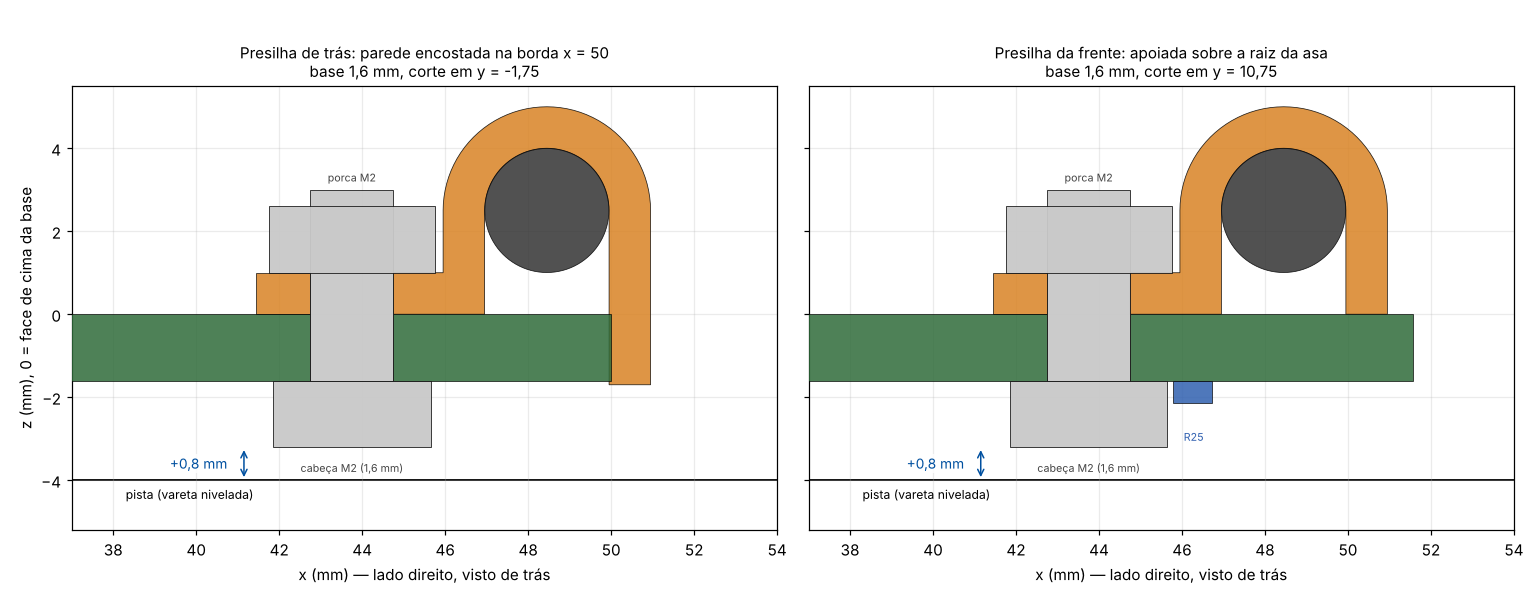
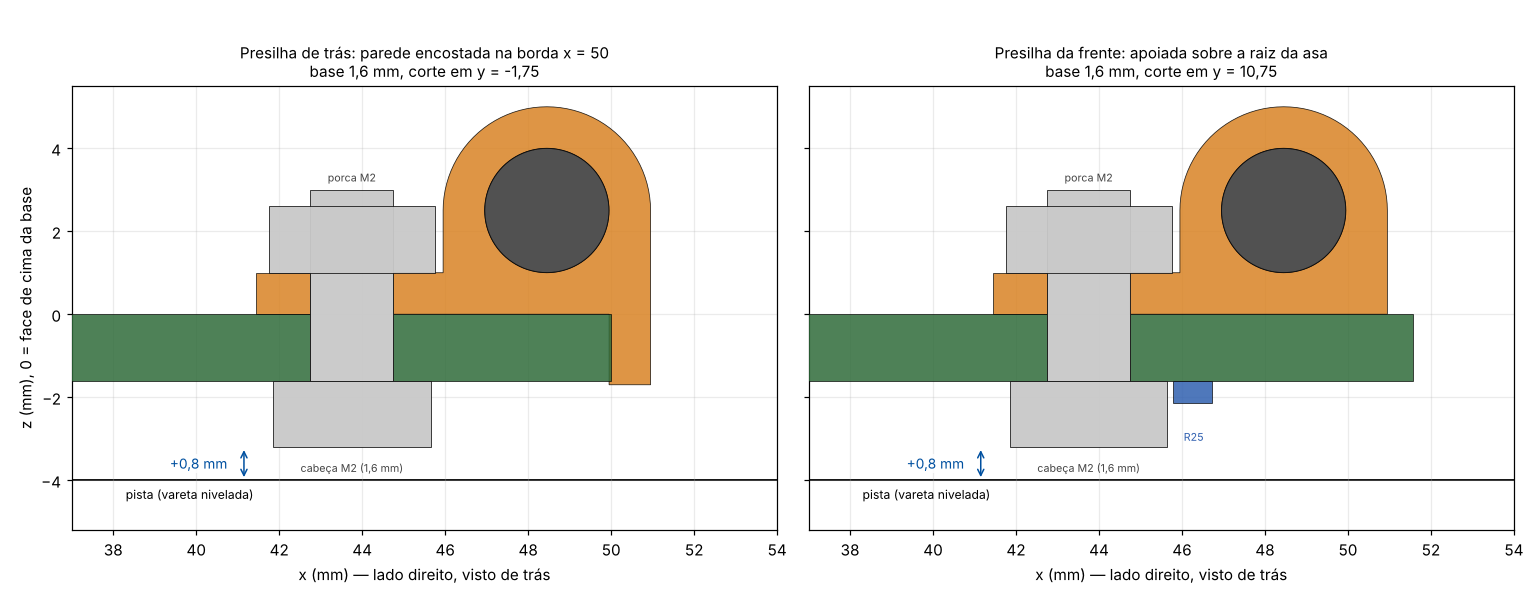
Mecânica para imprimir só em PLA e PETG
Presilhas com assento: o canal da vareta, aberto para a placa no
barilla_clamp do EVA-RT, deixava 1 mm de vão sob a vareta, e a altura
dela dependia só do aperto do canal e de cola. Sem filamento com fibra
de carbono o aperto é bem mais fraco, e o cianoacrilato cola mal no
PETG. Com o furo fechado embaixo, a vareta fica presa nos dois sentidos
e entra pela ponta. Os originais continuam reconstruídos iguais (opção
assento=False).

mecânica/README.md: o que o EVA-RT documenta sobre material, tabela de
PLA x PETG por peça, cuidados de impressão e cola para PETG.
Conferência 3D e figuras refeitas.

Peças derivadas do EVA-RT, (c) EXOTIC TEAM MX, AGPL-3.0.

Claude-Session: https://claude.ai/code/session_01LzVZu3KMmCq5bwxoKeBgSX

Changed region(s): [[0.7792, 0.3701, 0.8727, 0.5244], [0.3117, 0.3701, 0.4052, 0.5244]]

diff --git a/ferramentas/pecas_3d/gerar_pecas.py b/ferramentas/pecas_3d/gerar_pecas.py
@@ -195,7 +195,7 @@ def patim(esp_pcb=1.0, desl=DESL_PATIM_V1, borda_pcb=BORDA_V1_LOCAL,
 # Presilha da vareta na base (barilla_clamp)
 # ----------------------------------------------------------------------------
 def presilha(esp_pcb=1.0, folga_rasgo=0.0, desl=DESL_PRESILHA, x_fim=7.0,
-             braco_baixo=True, parede_na_borda=True) -> Manifold:
+             braco_baixo=True, parede_na_borda=True, assento=False) -> Manifold:
     """Presilha da vareta na base.
 
     braco_baixo  True = como o barilla_clamp do EVA-RT (rasgo que abraca a placa).
@@ -208,6 +208,12 @@ def presilha(esp_pcb=1.0, folga_rasgo=0.0, desl=DESL_PRESILHA, x_fim=7.0,
                  peca girar). False = a parede acaba na face de cima: a peca apoia
                  inteira em cima da placa. E a presilha da frente do Saturn, que
                  fica sobre a raiz da asa (ali a placa vai alem de x = +-50).
+    assento      False = canal em U aberto para a placa, como no original: sob a
+                 vareta sobra 1 mm de vao e a altura dela depende so do aperto do
+                 canal (e de cola). True = canal fechado embaixo (furo O3 inteiro):
+                 a vareta fica presa para cima e para baixo. Para PLA/PETG, que
+                 seguram por aperto bem menos que filamento com fibra de carbono,
+                 e o PETG cola mal com cianoacrilato. A vareta entra pela ponta.
     """
     comp = 4.5
     y_topo_pcb = -2.5                            # eixo da vareta 2,5 mm acima da base
@@ -222,19 +228,20 @@ def presilha(esp_pcb=1.0, folga_rasgo=0.0, desl=DESL_PRESILHA, x_fim=7.0,
     if braco_baixo:
         corpo += ret(-2.5, x_fim, y_base, y_base_pcb)        # braco de baixo
     corpo -= circ(R_VARETA)
-    corpo -= ret(-R_VARETA, R_VARETA, y_base_pcb, 0)
+    if not assento:
+        corpo -= ret(-R_VARETA, R_VARETA, y_base_pcb, 0)
     return extr_z(corpo, 0, comp) - furo_y(desl, comp / 2)
 
 
 def presilha_tras():
     """Presilhas de tras (y = -1,75): borda reta em x = +-50, parede encostada nela.
-    E a presilha do perseguidor RUSH - Dreamcast (base de 1,6 mm)."""
-    return presilha(ESP_BASE, folga_rasgo=0.1, braco_baixo=False)
+    E a presilha do perseguidor RUSH - Dreamcast (base de 1,6 mm) com o assento."""
+    return presilha(ESP_BASE, folga_rasgo=0.1, braco_baixo=False, assento=True)
 
 
 def presilha_frente():
     """Presilhas da frente (y = 10,75): sobre a raiz da asa, apoiada so em cima."""
-    return presilha(ESP_BASE, folga_rasgo=0.1, braco_baixo=False, parede_na_borda=False)
+    return presilha(ESP_BASE, folga_rasgo=0.1, braco_baixo=False, parede_na_borda=False, assento=True)
 
 
 # ----------------------------------------------------------------------------

diff --git a/mecânica/README.md b/mecânica/README.md
@@ -16,13 +16,16 @@ O EVA-RT foi feito para base de 1,0 mm. Com 1,6 mm:
 Por causa da asa de gaivota, mais uma mudança, que não depende da espessura:
 - **Bloco da transversal:** o `barilla_connection` desce 1 mm abaixo da face de cima da base. No EVA-RT ele fica à frente da placa; no Saturn, a raiz da asa passa embaixo dele. O bloco novo tem um rebaixo no contorno da placa, com 0,3 mm de folga. É a mesma peça nos dois lados, e o furo da transversal fica igual.
 
+E uma por imprimir só em PLA e PETG (ver "Material"):
+- **Presilhas com assento:** na presilha original, o canal da vareta é aberto para a placa, e sobra 1 mm de vão sob a vareta. A altura dela depende só do aperto do canal e de cola. As presilhas deste kit têm o furo fechado embaixo: a vareta fica presa para cima e para baixo e entra pela ponta.
+
 ![Corte pelas presilhas](conferencia/corte_presilha.png)
 
 ## O que imprimir (`stl/`)
 | Arquivo | Qtde | Origem | Função |
 |---|---|---|---|
-| `presilha_vareta_tras_base1.6.stl` | 2 | perseguidor | presilha de trás (y = −1,75), parede na borda da base |
-| `presilha_vareta_frente_asa.stl` | 2 | **nova** | presilha da frente (y = 10,75), apoiada sobre a raiz da asa |
+| `presilha_vareta_tras_base1.6.stl` | 2 | perseguidor + assento | presilha de trás (y = −1,75), parede na borda da base |
+| `presilha_vareta_frente_asa.stl` | 2 | **nova**, com assento | presilha da frente (y = 10,75), apoiada sobre a raiz da asa |
 | `patim_v1_direito_barra1.6.stl` | 1 | novo (igual ao do perseguidor) | patim da barra V1, lado direito (+x) |
 | `patim_v1_esquerdo_barra1.6.stl` | 1 | novo (igual ao do perseguidor) | patim da barra V1, lado esquerdo |
 | `bloco_transversal_asa.stl` | 2 | EVA-RT com rebaixo | une a vareta longitudinal à transversal |
@@ -41,16 +44,34 @@ Do EVA-RT, não entram:
 - `barilla_clamp.stl`: tem rasgo de 1,0 mm;
 - `suction_base.stl` e `barilla_connection.stl`: foram substituídas pelas versões adaptadas.
 
-## Material e impressão
-Recomendação minha; o EVA-RT não informa material.
-- **PETG** nas peças com braço fino que trabalha sob aperto ou que encostam em motor: patins, presilhas, caixas de redução, `impeller_base_1/2`. O PLA amolece perto de 55–60 °C e racha em braço de 1 mm apertado por parafuso.
-- **Hélice:** PETG ou ABS/ASA, 100% de preenchimento, camada de 0,12–0,16 mm. Antes de dar potência, conferir se gira sem bater. Se vibrar, imprimir de novo.
-- **PLA serve** em aro, bloco da transversal, apoio da bateria, bucha e placa de sucção. O aro precisa de um alojamento de rolamento preciso (Ø6,19 × 3,0), e o PLA acerta melhor a medida.
+## Material: só PLA e PETG
+O README do EVA-RT não informa o filamento. Nas fotos, a carcaça da ventoinha é branca, de filamento comum, e as peças pequenas são pretas e foscas. Podem ser de fibra de carbono ou só de filamento preto: não dá para saber. O carbono documentado são as varetas, que são tubos comprados prontos, não impressos.
+
+Sem fibra de carbono, as peças ficam menos rígidas (PETG ≈ 2 GPa, PLA ≈ 3,5 GPa; com fibra, até 2 a 3 vezes mais) e o PETG amolece menos com calor (~80 °C, contra ~55–60 °C do PLA). O que isso muda:
+- **Presilhas:** ganharam o assento descrito acima. É a única peça que dependia do aperto do plástico para segurar a vareta na altura certa. No patim a vareta já apoia na barra e no assento, e no bloco ela passa por furos fechados.
+- **Cola:** o cianoacrilato cola bem no PLA e mal no PETG.
+  - Com o assento, a cola não segura mais a altura da vareta: serve só para travar o patim e as presilhas na posição ao longo dela.
+  - No PETG, lixar a superfície antes de colar. Se mesmo assim soltar, usar epóxi, ou uma volta de fita isolante na vareta logo atrás do patim, como batente.
+- **Hélice:** a ~50 mil rpm, a tensão na raiz das pás fica em ~5 MPa (estimativa grosseira). É uma fração da resistência do PETG e do PLA, então nenhum dos dois precisa de fibra.
+
+| Peça | Material | Por quê |
+|---|---|---|
+| presilhas, patins, bloco da transversal | **PETG** | braço de 1 mm apertado por parafuso e pancada em batida: o PLA racha |
+| caixas de redução | **PETG** | seguram o motor 1020, que esquenta; no PLA o motor afrouxa e o engrenamento (módulo 0,3) sai do lugar |
+| `impeller_base_1/2` (carcaça) | **PETG** | motor da ventoinha encostado |
+| hélice | **PETG** | o cubo fica no eixo do motor, que esquenta |
+| placa de sucção | **PETG** | o fundo do rebaixo tem 0,2 mm, e a cabeça do parafuso gira em cima dele ao apertar: o PLA trinca |
+| aros | **PLA** | alojamento do rolamento preciso (Ø6,19 × 3,0); o PLA acerta melhor a medida |
+| apoio da bateria, bucha (`bead`) | PLA ou PETG | sem esforço |
+
+Impressão:
 - Bico de 0,4 mm, camada de 0,12–0,16 mm, 3 perímetros ou mais, 100% de preenchimento.
-- Patim, presilhas e bloco já estão na posição de impressão (furo da vareta na vertical), sem suporte. O rebaixo do bloco fica na lateral da peça e também sai sem suporte.
+- PETG seco e com retração bem ajustada: fio solto na hélice desbalanceia, e no furo da vareta impede a vareta de entrar.
+- Patim, presilhas e bloco já estão na posição de impressão (furo da vareta na vertical), sem suporte. O assento das presilhas fecha um furo vertical e também não precisa de suporte. O rebaixo do bloco fica na lateral da peça.
 - Placa de sucção: deitada, 3 camadas de 0,2 mm, **com os rebaixos para cima** (a face lisa na mesa). Assim o fundo de 0,2 mm é a primeira camada e não precisa de ponte.
-- Os furos de Ø2,0 e o canal de 3,0 mm da vareta saem justos de propósito, como no original. Se não entrar, passar broca de 2 mm e de 3 mm à mão.
-- Imprimir primeiro **uma** presilha de cada tipo e **um** patim e testar na placa e na barra antes do resto.
+- Os furos de Ø2,0 e de Ø3,0 da vareta saem justos de propósito, como no original. Se a vareta não entrar, passar broca de 2 mm ou de 3 mm à mão. Como o furo das presilhas agora é fechado, a vareta tem de atravessar as duas presilhas e o bloco: alargar o furo só o bastante para ela deslizar com atrito.
+- Hélice: conferir se gira sem bater antes de dar potência. Se vibrar, imprimir de novo.
+- Imprimir primeiro **uma** presilha de cada tipo e **um** patim e testar na placa, na barra e com a vareta antes do resto.
 - O fundo do esqui desgasta na pista: imprimir um par de reserva.
 
 ## Ferragens
@@ -63,7 +84,7 @@ Recomendação minha; o EVA-RT não informa material.
 | Parafuso M2 × 6 + porca M2 | 4 | caixas de redução. A pilha é de 5,7 mm (pé 2,5 + base 1,6 + porca 1,6), sem sobra: se a porca não pegar a rosca inteira, usar M2 × 8 |
 | Parafuso M2 × 6, rosca direto no plástico | 4 | por baixo: fundo do rebaixo da placa de sucção → base → pés da carcaça (furo Ø1,85, 5 mm de fundo; entram 4,2 mm) |
 | Rolamento 692ZZ (2 × 6 × 3) | 4 | dois por aro |
-| Cola (cianoacrilato) | — | patins e presilhas, depois de acertar a distância |
+| Cola (cianoacrilato; epóxi se o PETG não colar) | — | travar patins e presilhas na vareta, depois de acertar a distância |
 
 Total: 12× M2 × 6, 2× M2 × 8, 10 porcas M2. Um kit M2 de 4 a 10 mm cobre as variações.
 Use cabeça cilíndrica ou abaulada de até Ø3,8 × 1,6 mm, sem arruela. Cabeça mais alta encosta na pista (ver alturas abaixo).
@@ -75,7 +96,7 @@ Use cabeça cilíndrica ou abaulada de até Ø3,8 × 1,6 mm, sem arruela. Cabeç
    - **Cortar rente**, embaixo, os terminais de J1, J2 e J4 e as pontas dos fios dos motores. Com a base de 1,6 mm sobram só 2,4 mm entre a placa e a pista.
    - Soldar a J2 bem reta, porque a vareta transversal passa a 0,23 mm dela.
    - J3 (gravação): ver "Cuidados".
-2. Passar cada vareta longitudinal pelo bloco da transversal e pelas duas presilhas.
+2. Passar cada vareta longitudinal, pela ponta, pelas duas presilhas e pelo bloco da transversal. O furo das presilhas é fechado.
 3. Encaixar as presilhas na base e prender cada uma com M2 × 6 de baixo para cima, com a porca em cima do braço:
    - **atrás**, a parede externa encosta na borda em x = ±50, sobre os furos (±43,75; −1,75);
    - **na frente**, a presilha apoia sobre a raiz da asa, sobre os furos (±43,75; 10,75).
@@ -84,7 +105,7 @@ Use cabeça cilíndrica ou abaulada de até Ø3,8 × 1,6 mm, sem arruela. Cabeç
 6. Conferir se as 4 cabeças ficaram dentro dos rebaixos.
 7. Encaixar os patins nas pontas da barra, com o esqui para fora e a ponta curva para a frente. Pôr o M2 × 8 sem apertar e passar as varetas pelos canais.
 8. Deslizar a barra até **63,14 mm** entre o furo da frente da base e o furo da barra. A mesma cota dá 57,89 mm entre a face da frente da presilha dianteira e a face de trás do patim. Conferir os dois lados iguais e apertar.
-9. Com a distância aprovada na pista, pingar uma gota de cola (cianoacrilato) em cada patim e cada presilha.
+9. Com a distância aprovada na pista, travar cada patim e cada presilha na vareta com uma gota de cola (ver "Material").
 
 Resultado esperado:
 - varetas paralelas em x = ±48,45;

diff --git a/mecânica/SUPORTE_BARRA_V1.md b/mecânica/SUPORTE_BARRA_V1.md
@@ -46,6 +46,12 @@ Fontes conferidas:
 ![Corte pelas presilhas](conferencia/corte_presilha.png)
 
 Nenhuma das duas presilhas tem o braço de baixo. O parafuso aperta o braço de cima direto na base, com a cabeça embaixo da placa, a 0,8 mm da pista. A solução veio do perseguidor.
+
+As duas têm **assento**: o furo da vareta é fechado embaixo, porque o kit é impresso em PLA/PETG.
+- No original, o canal é aberto para a placa, e sobra 1 mm de vão sob a vareta. Quem segura a altura dela é só o aperto do canal (e cola).
+- Pela estática, o esqui empurra a ponta da vareta para cima, e a vareta tende a girar em torno do bloco da transversal (a única peça que a prende nos dois sentidos). Com isso, a ponta de trás desce justamente para o lado aberto das presilhas.
+- Com filamento comum, o aperto é bem mais fraco que com fibra, e o cianoacrilato cola mal no PETG.
+- Com o assento, a vareta fica presa para cima e para baixo e entra pela ponta (a ordem de montagem já era essa).
 - **De trás** (`presilha_vareta_tras_base1.6.stl`): é a presilha do perseguidor. A parede externa desce até a face de baixo da base e encosta na borda reta em x = 50, o que dá a referência para a vareta não girar. Entra 0,05 mm na borda, como o `barilla_clamp` no EVA-RT.
 - **Da frente** (`presilha_vareta_frente_asa.stl`): é nova. Em y = 10,75, a placa vai até x ≈ 51,6 (raiz da asa), e por isso a parede acaba na face de cima e a peça apoia inteira sobre a placa.
   - A vareta, presa na presilha de trás, não a deixa girar.

diff --git a/CLAUDE.md b/CLAUDE.md
@@ -44,12 +44,14 @@ Seguidor de linha **RUSH - SATURN** para uma competição baseada no regulamento
 - Base de **1,6 mm** (pedido na JLC) e barra V1 de **1,6 mm** (medida pelo Erick). Guia em `mecânica/README.md`; análise em `mecânica/SUPORTE_BARRA_V1.md`.
 - STL gerados por `ferramentas/pecas_3d/gerar_pecas.py`; conferência 3D com o `.epro` do v12 em `ferramentas/pecas_3d/conferir_montagem.py`. A presilha sem braço de baixo e a conferência de parafusos e alturas vieram do repositório do perseguidor.
 - Peças adaptadas:
-  - presilha de trás sem braço de baixo, com a parede na borda x = ±50 (igual à do perseguidor);
+  - presilha de trás sem braço de baixo, com a parede na borda x = ±50 (a do perseguidor);
   - presilha da frente apoiada sobre a raiz da asa;
+  - as duas presilhas com assento (furo da vareta fechado embaixo), por serem impressas em PLA/PETG;
   - patim da V1 para barra de 1,6 mm (igual ao do perseguidor);
   - bloco da transversal com rebaixo para a asa;
   - placa de sucção com rebaixo para as cabeças dos pés. O fundo de 0,2 mm isola as vias PWMA_D5/PWMB_D6/GND.
 - Barra a 63,14 mm entre furos (L = 107,1), ajustável na vareta. Barra a 3,4 mm da pista; QRE de marca a 0,7 mm; cabeças de parafuso a 0,6–0,8 mm (pneu de ~22 mm, não medido).
+- O Erick tem só PLA e PETG (sem filamento com fibra de carbono). PETG nas peças sob aperto ou perto de motor; PLA nos aros. Tabela em `mecânica/README.md`.
 - Nada foi impresso nem testado fisicamente.
 
 ## Próximos passos
